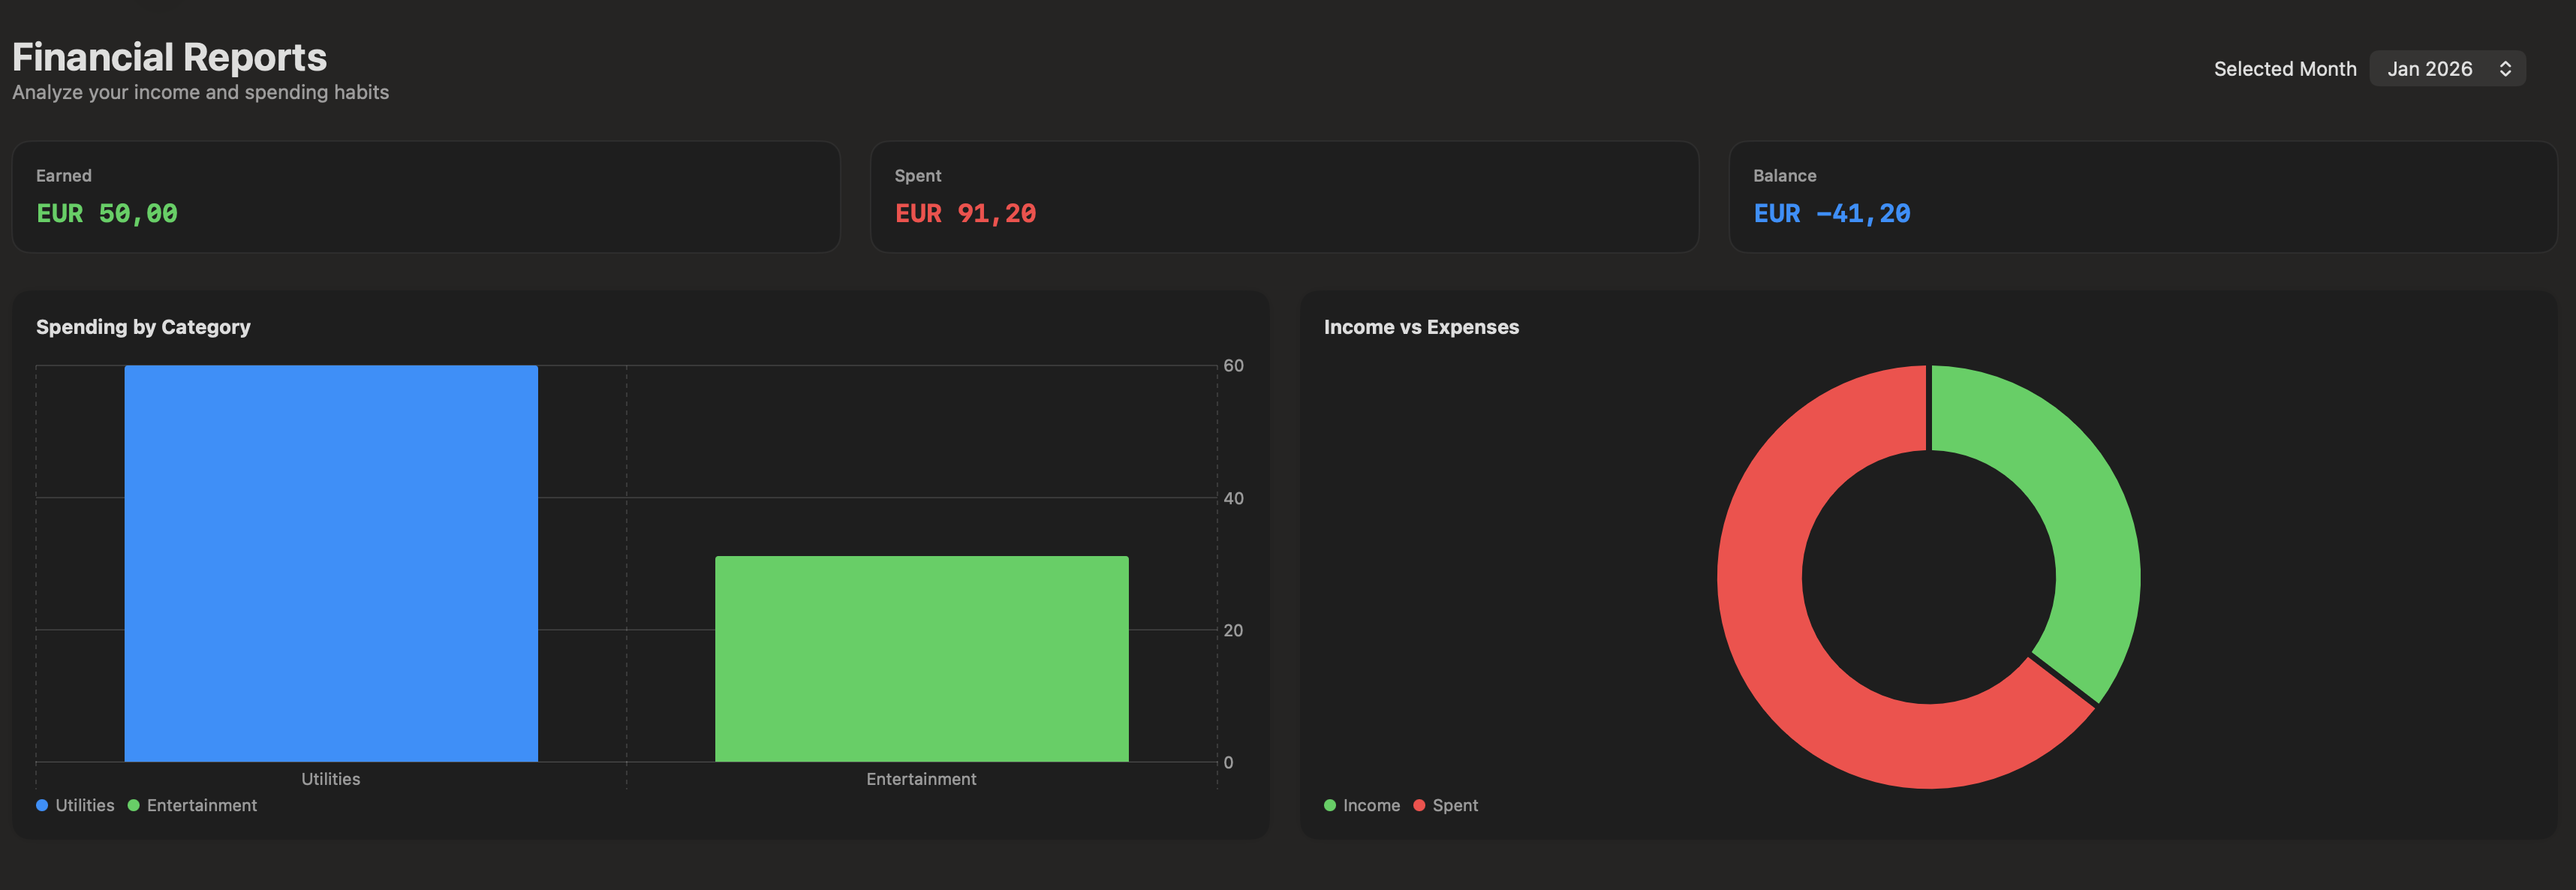
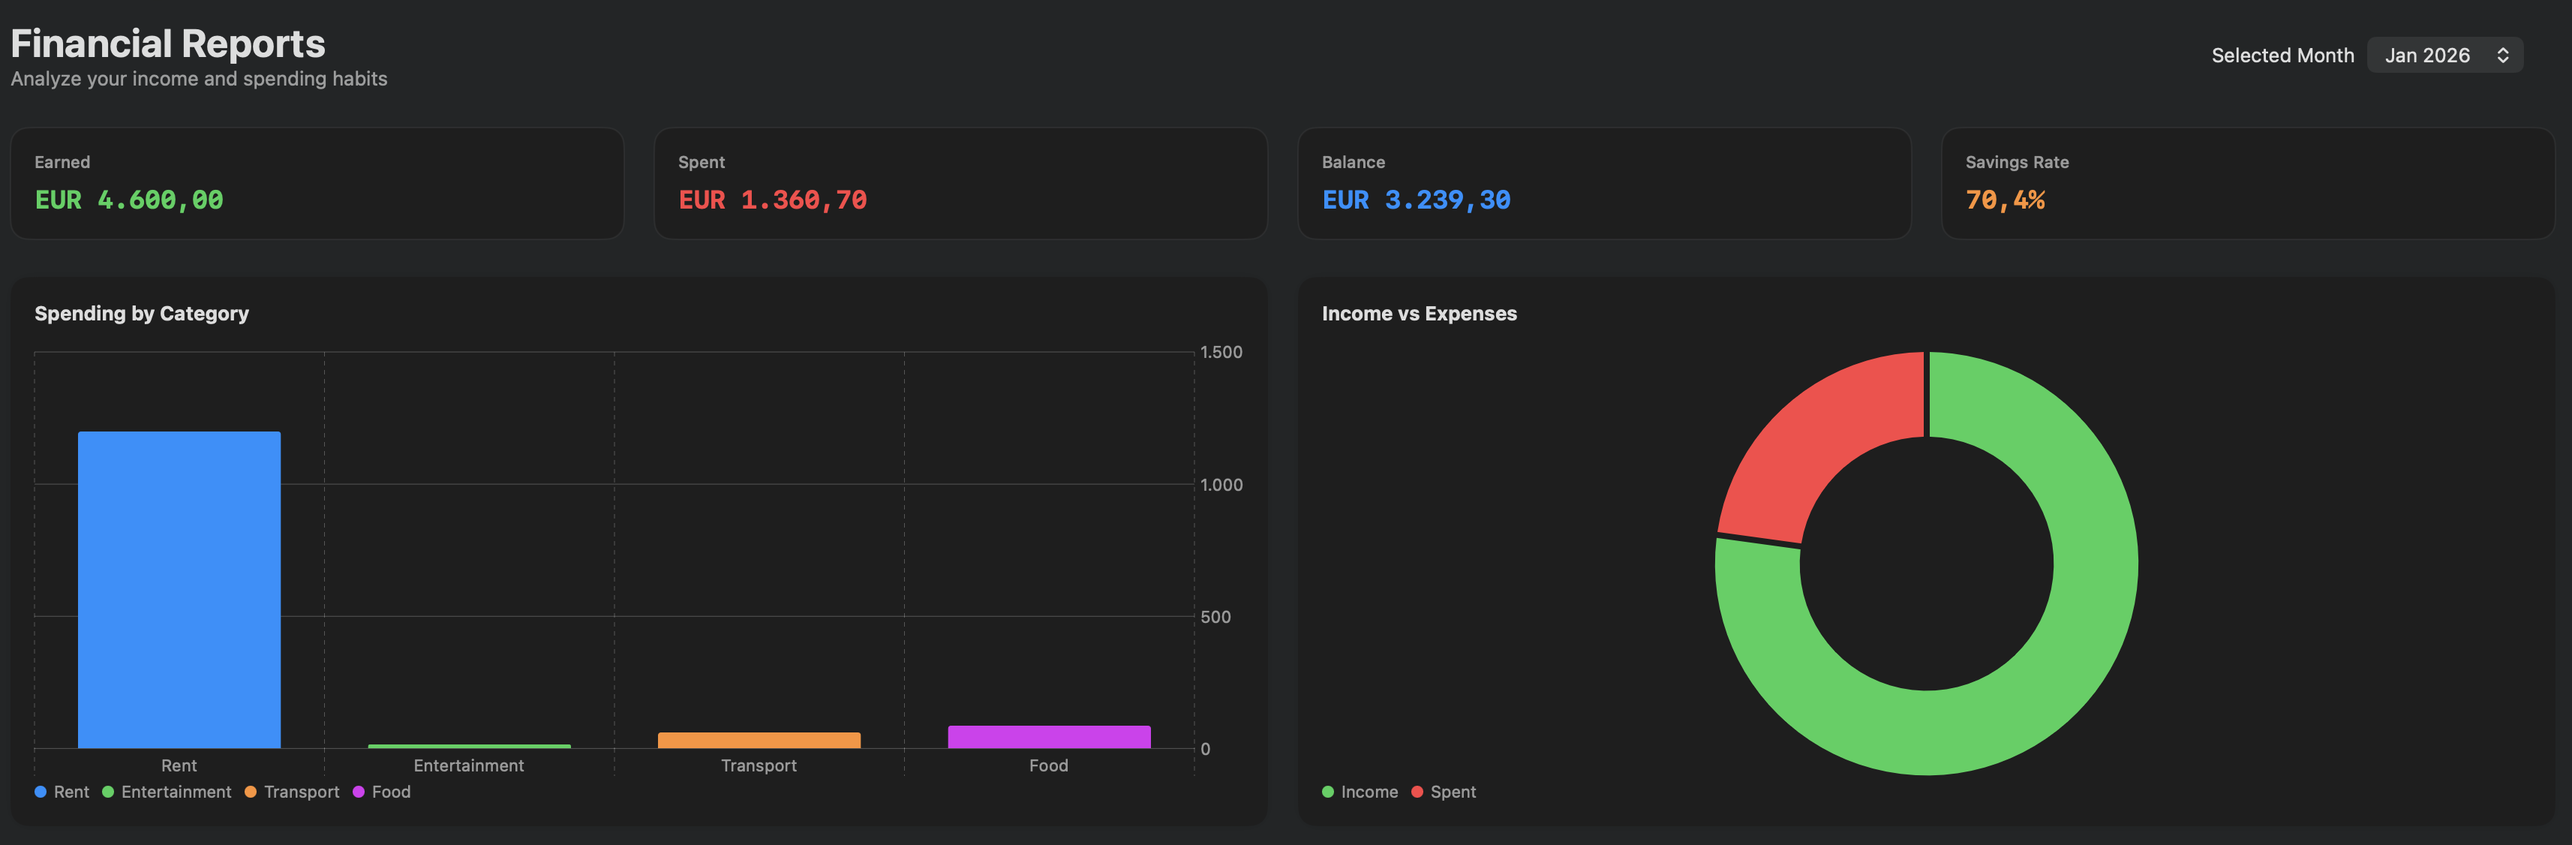
Added the savings rate summary card to the Report View.

diff --git a/Accounty/Views/ReportView.swift b/Accounty/Views/ReportView.swift
@@ -24,6 +24,12 @@ struct ReportView: View {
         monthlyEntries.filter { $0.type == "Expense" }.reduce(0) { $0 + $1.amount }
     }
 
+    var savingsRate: Double {
+        guard totalEarned > 0 else { return 0.0 }
+        let rate = ((totalEarned - totalSpent) / totalEarned) * 100
+        return max(rate, 0.0)
+    }
+
     var body: some View {
         ScrollView {
             VStack(spacing: 25) {
@@ -32,14 +38,15 @@ struct ReportView: View {
 
                 if availableMonths.isEmpty {
                     ContentUnavailableView("No Data Available",
-                                           systemImage: "chart.bar.fill",
-                                           description: Text("Start by adding new entries to see your reports."))
+                                         systemImage: "chart.bar.fill",
+                                         description: Text("Start by adding new entries to see your reports."))
                         .padding(.top, 100)
                 } else {
                     HStack(spacing: 20) {
-                        SummaryCard(title: "Earned", amount: totalEarned, color: .green)
-                        SummaryCard(title: "Spent", amount: totalSpent, color: .red)
-                        SummaryCard(title: "Balance", amount: totalEarned - totalSpent, color: .blue)
+                        SummaryCard(title: "Earned", amount: totalEarned, color: .green, isPercentage: false)
+                        SummaryCard(title: "Spent", amount: totalSpent, color: .red, isPercentage: false)
+                        SummaryCard(title: "Balance", amount: totalEarned - totalSpent, color: .blue, isPercentage: false)
+                        SummaryCard(title: "Savings Rate", amount: savingsRate, color: .orange, isPercentage: true)
                     }
                     .padding(.horizontal)
                     
@@ -139,6 +146,7 @@ struct SummaryCard: View {
     let title: String
     let amount: Double
     let color: Color
+    let isPercentage: Bool
     
     var body: some View {
         VStack(alignment: .leading, spacing: 8) {
@@ -147,7 +155,7 @@ struct SummaryCard: View {
                 .fontWeight(.medium)
                 .foregroundStyle(.secondary)
             
-            Text("EUR \(amount, specifier: "%.2f")")
+            Text(isPercentage ? "\(amount, specifier: "%.1f")%" : "EUR \(amount, specifier: "%.2f")")
                 .font(.system(.title2, design: .monospaced))
                 .bold()
                 .foregroundStyle(color)

diff --git a/README.md b/README.md
@@ -2,7 +2,22 @@
 
 A macOS native expense tracker to manage and analyze one's assets and expenses.
 
-<img src="showcase/main_menu.png" alt="Main Menu Image" width="50%" height="50%" style="display: block; margin: 0 auto;">
+> [!NOTE]
+> The application still needs a lot more work.
+
+## Showcase
+
+After logging in, the user is welcomed with the following main menu:
+
+<p align="center">
+  <img src="showcase/main_menu.png" alt="Main Menu Image" width="50%">
+</p>
+
+And can take a peek, in the Reports menu, at the overall financial situation:
+
+<p align="center">
+  <img src="showcase/reports.png" alt="Reports Image" width="90%">
+</p>
 
 ## Functionalities
 
